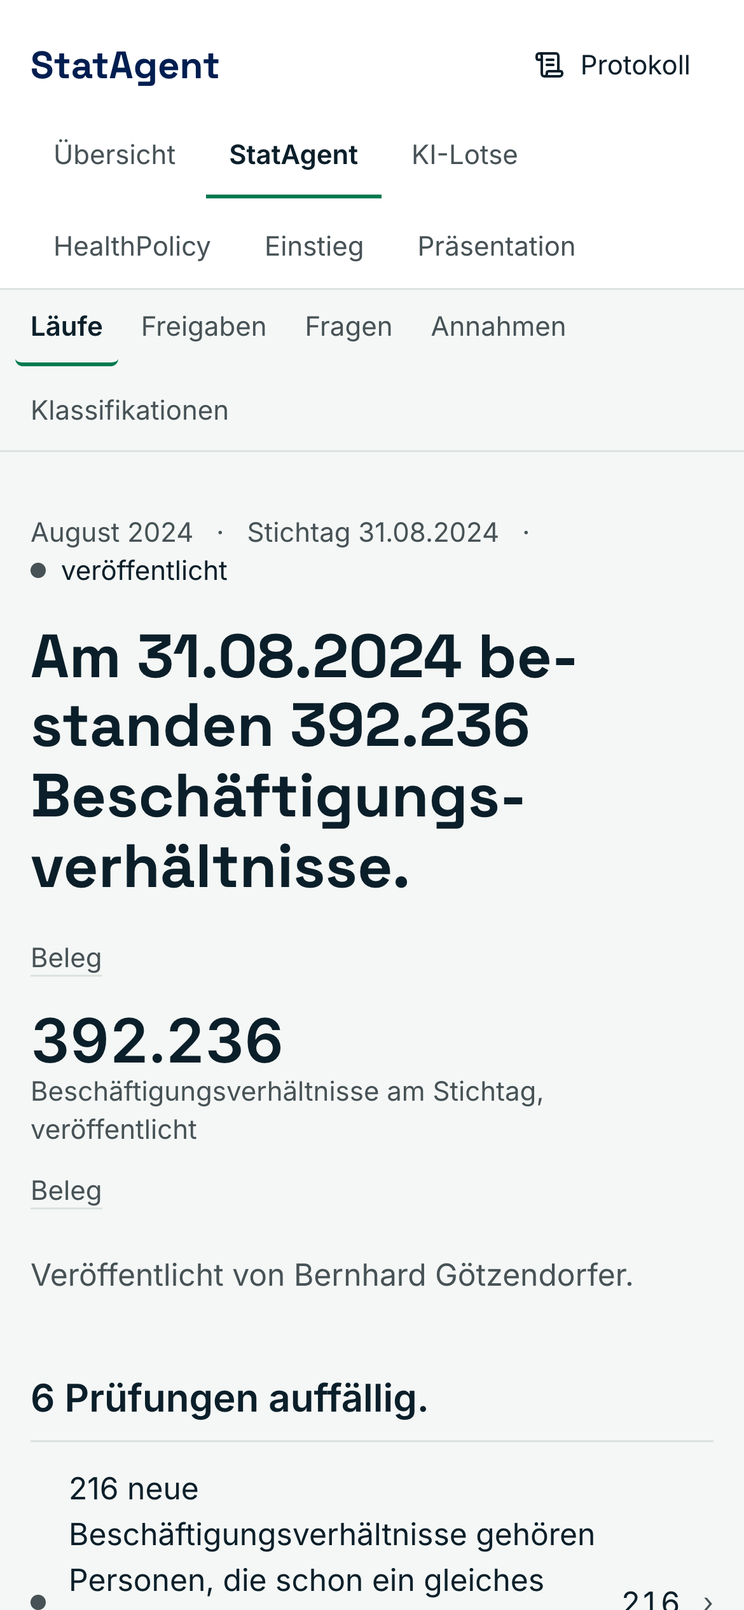
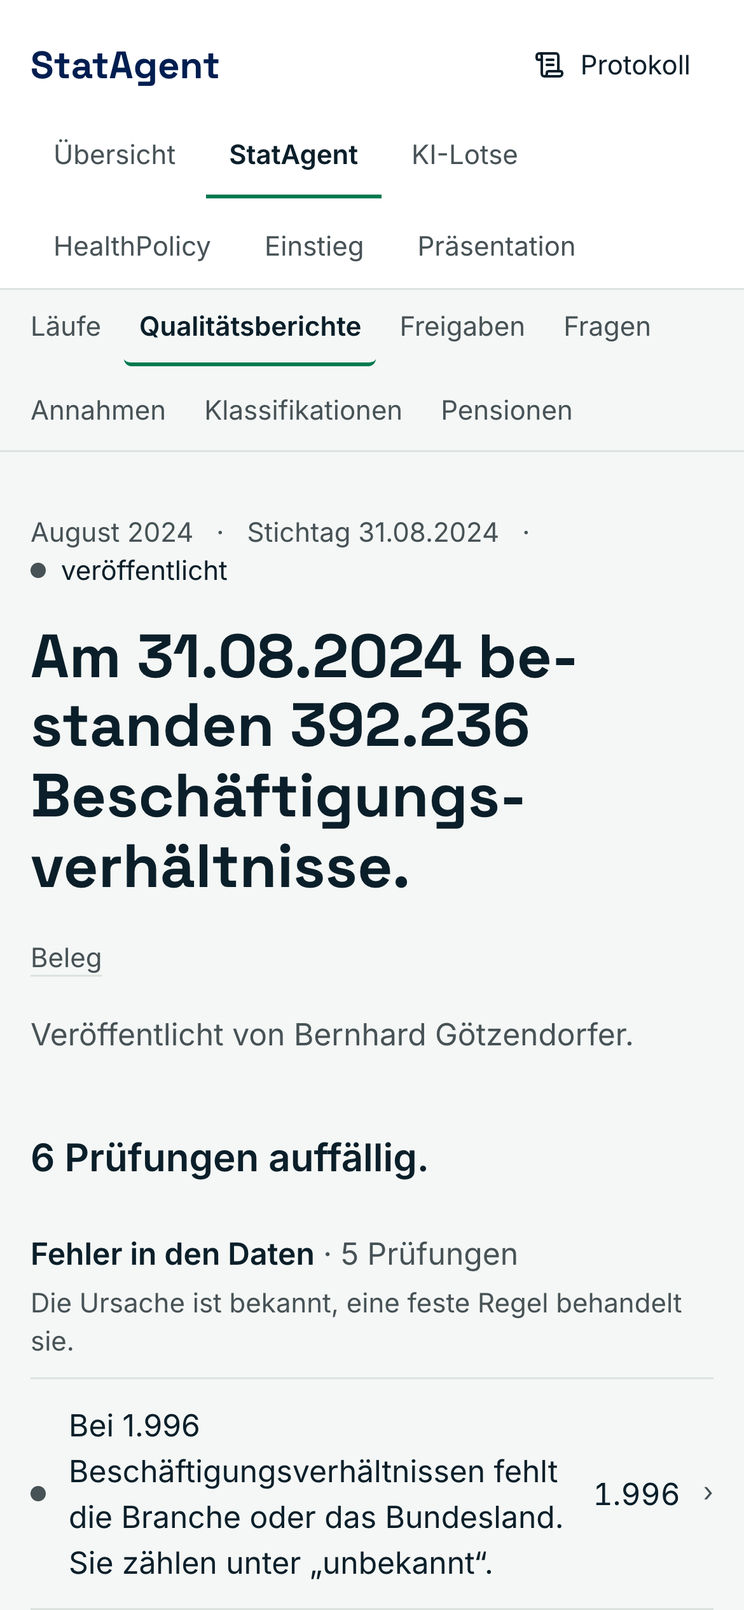
docs(e5): Karte, Drehbuch und alle Bilder auf dem Endstand, neue Wörter, Sätze zu Video, Sheet und Pensionen (#141)

diff --git a/docs/praesentation/demo-drehbuch.md b/docs/praesentation/demo-drehbuch.md
@@ -39,20 +39,20 @@ Standard ist Oktober 2025. Alternative ist März 2025. Bernhard wählt vorab ein
 - Sagt Bernhard (Einstieg auf `/uc3`): „24 Monatslieferungen, eine Zahl pro Monat. Zwei Monate hat das Programm angehalten, statt sie zu veröffentlichen. Das zeige ich Ihnen zuerst.“
 
 - Reserve im Terminal: `uv run uc3 lauf --lieferung 2025-10`, danach `uv run uc3 laeufe`. Bericht: `abgabe/qualitaetsberichte/2025-10.md`. Alternative: `--lieferung 2025-03` und `abgabe/qualitaetsberichte/2025-03.md`.
-- Klickweg: `/uc3/auftrag`, unten „Einen Monat rechnen“, Monat wählen, dann „Monat und Qualitätsbericht ansehen“. Gemessen für Oktober 2025: 92,9 s und 102,0 s (Lane Vorführung).
-- Sagt Bernhard (Oktober 2025): „Es kommen 313.154 gegen 394.200 im Vormonat (F17). 78.949 Verhältnisse fehlen in der Lieferung (F11). Das Programm hält den Monat an und markiert ihn als vorläufig.“
+- Klickweg: „Auftrag“, unten „Einen Monat rechnen, nach den Änderungsaufträgen“, Monat wählen, „Rechnen“, dann „Monat und Qualitätsbericht ansehen“. Gemessen für Oktober 2025 auf der Vorführ-Adresse: 92,9 s bis 106 s. Im ersten Bildschirm: „angehalten“, 78.949 fehlen, 319.768 + 77.746 = 397.514 (06.11.2026 06:28).
+- Sagt Bernhard (Oktober 2025): „Jedes fünfte Verhältnis fehlt in der Lieferung, 78.949 (F11). Das Programm hält den Monat an und markiert ihn als vorläufig. Im Video sehen Sie die alten Regeln, 390.900. Hier rechnet das Programm nach den Änderungsaufträgen, 397.514. Die 78.949 fehlen in beiden.“
 - Sagt Bernhard (März 2025): „März 2025 hat zwei Fehler auf einmal. 1.663 Zeilen sind doppelt (F8), und die freien Dienstverträge fehlen ganz, 1.492 Verhältnisse (F9). Das Programm hält den Monat an und markiert ihn als vorläufig.“
 - Jury muss sehen (Oktober 2025):
-  - Prüfregel P15: 313.154 gegen 394.200 (F17), Einstufung sichtbar.
+  - Prüfregel P15: nach den Änderungsaufträgen 82.556 unter dem Vormonat, nach den alten Regeln 313.154 gegen 394.200, also 81.046 (F17). Einstufung sichtbar.
   - Prüfregel P16: 78.949 von 394.200 Verhältnissen fehlen (F11).
   - Prüfregel P17: 345.078 Zeilen gegen 434.104 im Vormonat (F11).
-  - Status des Monats: angehalten und vorläufig. 77.746 Verhältnisse sind fortgeschrieben, 390.900 sind als vorläufiger Bestand ausgewiesen (F11).
+  - Status des Monats: angehalten und vorläufig. 77.746 Verhältnisse sind übernommen. Nach den Änderungsaufträgen 397.514, nach den alten Regeln 390.900 (F11).
   - Nichts wurde gelöscht. Die Rohdaten bleiben.
 - Jury muss sehen (März 2025):
   - Auffälligkeit Volldubletten mit 1.663 Zeilen (F8), Einstufung sichtbar.
   - Auffälligkeit fehlende freie Dienstverträge mit 1.492 Verhältnissen (F9), Einstufung sichtbar.
   - Status des Monats: angehalten und vorläufig.
-- Beleg danach (3:00–4:00): Bericht August 2024 öffnen. Sagt Bernhard: „Ihr Beispielbericht August 2024, 2.880 Zahlen. Wir rechnen ihn komplett nach: 2.880 stimmen (F1). Für die 23 anderen Monate wachen 24 Prüfregeln (F15).“
+- Beleg danach (3:00–4:00): „Qualitätsberichte“, August 2024. Sichtbar: 392.236. Sagt Bernhard: „Ihr Beispielbericht August 2024, 2.880 Zahlen. Wir rechnen ihn komplett nach: 2.880 stimmen (F1). Für die 23 anderen Monate wachen 24 Prüfregeln (F15).“ Die 2.880 steht nicht im ersten Bild, nur zugeklappt in einer Rückfrage.
 - Hinweis zu 81.046 und 78.949: Die Differenz der Bestände ist 394.200 minus 313.154, also 81.046 (F17). Die Zahl 78.949 zählt Verhältnisse, die in der Lieferung gar nicht vorkommen (F11). Das sind zwei verschiedene Messungen. Bernhard nennt in der Demo beide nur mit ihrer Bedeutung.
 
 ### Annahme im Detail (4:00–5:00)
@@ -72,18 +72,20 @@ Bewertet in Bereich 5 („Live-Änderung per Sprache gelingt“, 20 Punkte). „
 1. `uv run uc3 vorschlag zeigen 24`: Regel-Unterschied und Zahlen vorher und nachher von Auftrag 1.
 2. `uv run uc3 protokoll --zeigen`, Abschnitt 2: alle drei Aufträge mit Status „freigegeben“ und Name.
 
-- Sagt Bernhard (FAQ Frage 11): „Die drei Aufträge der Aufgabe habe ich in Sätzen gestellt, die Agenten schrieben Vorschläge. Die Freigaben hat in meinem Auftrag eine KI-Sitzung eingegeben, ich habe sie um 18:22 mit meinem Namen bestätigt. Das steht offen im Protokoll.“
+- Sagt Bernhard (FAQ Frage 11): „Die drei Aufträge der Aufgabe habe ich in Sätzen gestellt, die Agenten schrieben Vorschläge. Die Freigaben hat in meinem Auftrag eine KI-Sitzung eingegeben, ich habe sie um 18:22 mit meinem Namen bestätigt. Das steht offen in der Datei `abgabe/protokoll.md`.“ Das Web-Protokoll und die Freigaben zeigen nur „Freigegeben von Bernhard Götzendorfer“ mit 16:53 bis 16:54.
 - Sagt Bernhard (bei 1): „Der Gesamtbestand bleibt bei 392.236. Die Kategorien verschieben sich: Angestellte mit Dienstvertrag 235.819 und mit freiem Dienstvertrag 1.142 werden zu Angestellten, 236.961.“
 
 **Teil 2, live per Sprache (6:00–9:30):** Laut Aufgabenstellung gibt die Jury eine kleine, unbekannte Änderung vor. Bernhard fragt: „Nennen Sie mir eine Regel, die ich jetzt ändern soll.“ Er wiederholt den Wunsch der Jury in einem Satz und tippt diesen Satz. Die vier geübten Änderungen im Fragenkatalog Teil B decken die naheliegenden Wünsche ab (Altersgrenze, Geburtsmonat 13, Schwelle Bestandsrückgang, Spaltentausch). Nennt die Jury nichts, nimmt Bernhard den Standard-Satz unten.
 
-**Standard-Satz:** „Beamte zählen nicht mehr mit“, Monat Juli 2026. Die Seite zeigt: Gesamt 407.604 → 395.315, „Gesamt ändert sich um −12.289“, Beamte 12.289 → 0, Angestellte und Arbeiter gleich. Der Vorschlag dauert rund 3 Minuten: gemessen 06.11.2026 02:36 auf dem Instanz-Stand 1a4e0b8, 2 min 55 s, nur bis zum Vorschlag. Die Lane Vorführung maß 2 min 45 s, die UI-Regie 2 min 34 s. Rücknahme: neuer Auftrag „Nimm Vorschlag <n> zurück“, +12.289, rund 1,5 Minuten; bis #168 nennt die Seite dabei „Keine Regeländerung hinterlegt“. Ausschluss und Rücknahme sind seit !150 auf main (06.11.2026 02:06). Entscheid um 06:45.
+**Standard-Satz:** „Beamte zählen nicht mehr mit“, Monat Juli 2026. Die Seite zeigt: „Testrechnung für Juli 2026“, Gesamt 407.604 → 395.315, „Gesamt ändert sich in diesem Monat um −12.289“, Beamte 12.289 → 0, Angestellte und Arbeiter gleich. Der Vorschlag dauert rund 3 Minuten, die Seite sagt das selbst: gemessen 06.11.2026 06:17 bis 06:20, 2 min 46 s, zuvor 2 min 55 s, nur bis zum Vorschlag. Die Lane Vorführung maß 2 min 45 s, die UI-Regie 2 min 34 s. Rücknahme: neuer Auftrag „Nimm Vorschlag <n> zurück“, +12.289, rund 1,5 Minuten; bis #168 nennt die Seite dabei „Keine Regeländerung hinterlegt“. Ausschluss und Rücknahme sind seit !150 auf main (06.11.2026 02:06). D2 Teil 2 ja (Lead, 06:34).
+
+**Wenn jemand das Sheet aufschlägt:** Das Blatt Hinweise in `aggregationen_v2.xlsx` sagt „am Stichtag“, nach den Änderungsaufträgen zählt aber der ganze Monat, und alle 24 Monate sind dort vorläufig. Die Abgabe ist eingefroren. Sagt Bernhard: „Das Blatt trägt noch den alten Hinweis. Nach den Änderungsaufträgen zählt der ganze Monat, diese 24 Monate sind vorläufig.“
 
 **Knapp:** Von den 3:30 für Teil 2 gehen rund 3 Minuten ans Warten. In der Wartezeit sagt Bernhard: „Das Programm rechnet den Monat jetzt zweimal, nach der alten und nach der neuen Regel. Geändert ist noch nichts.“
 
 1. `/uc3/auftrag`: Satz tippen, Monat für die Zahlen wählen, „Vorschlag schreiben lassen“. Im Satz den Zielwert nennen. Bei einer Änderung an Geburtsmonat 13 Juni 2026 wählen. Reserve im Terminal: `uv run uc3 agent "<Satz>" --probe JJJJ-MM`, zum Beispiel B2: `uv run uc3 agent "Rechne bei Geburtsmonat 13 nur mit der Differenz der Jahre (Jahresdifferenz) statt mit dem 1. Juli." --probe 2026-06`. Der Agent schreibt einen Vorschlag. Seit !150 stimmt die Probe auch in 2025-03 und 2025-10 (396.762 und 397.514, gemessen von der UC3-Lane). Die Seite bietet alle 24 Monate an, auch diese zwei (gesehen 06.11.2026 02:36).
 2. „Vorher und nachher ansehen, dann entscheiden“: Regel-Unterschied und Zahlen vorher und nachher. Reserve: `uv run uc3 vorschlag zeigen <id>`. Bei B2: `R5_alter`, `geburtsmonat_13` von `ersatz:07-01` auf `jahresdifferenz`.
-3. Vor- und Nachnamen eintragen, „Ja, so rechnen wir ab jetzt“. Die Seite nennt den Commit. Reserve: `uv run uc3 freigabe <id> --name "Bernhard Götzendorfer"`, dann `uv run uc3 protokoll --zeigen`.
+3. Vor- und Nachnamen eintragen, „Ja, so rechnen wir ab jetzt“. Die Seite nennt den Commit. Danach „Freigaben“ in der Unterleiste öffnen: Beim Auftrag stehen Gesamt 407.604 → 395.315, −12.289, Name und Uhrzeit, der Kopf zählt „4 Änderungen, alle mit Namen freigegeben.“ (UI-Regie, 07:33). Das Panel „Protokoll“ im Kopf für diesen Schritt nicht öffnen: Es nennt den Namen nicht und zeigt die Zeit des Vorschlags. Reserve: `uv run uc3 freigabe <id> --name "Bernhard Götzendorfer"`, dann `uv run uc3 protokoll --zeigen`.
 
 - Sagt Bernhard (bei 1): „Ich sage dem Agenten in einem Satz, was er ändern soll.“
 - Sagt Bernhard (bei 2): „Hier ist, was sich ändern würde, vorher und nachher. Wirksam wird es erst mit meinem Namen.“ Bei B2 zusätzlich: „Der Gesamtbestand bleibt gleich. Die Regel ändert nur das Alter, deshalb steht die Wirkung unter der Tabelle, bei den Altersgruppen.“
@@ -96,7 +98,7 @@ Bewertet in Bereich 5 („Live-Änderung per Sprache gelingt“, 20 Punkte). „
 - Die Anweisung als Satz in Alltagssprache.
 - Regel-Diff und Zahlen vorher und nachher (F19 für Auftrag 1, live für den Standard-Satz).
 - Freigabe mit Vor- und Nachname, „Team“ wird abgelehnt (`shared/py/plattform/freigabe.py`, `pruefe_name`).
-- Eintrag im Protokoll (F26).
+- Name und Uhrzeit beim Auftrag unter „Freigaben“. Die Datei `abgabe/protokoll.md` trägt die Aufträge der Aufgabe (F26).
 
 **Stand der Proben:** 05.11.2026 17:56 bis 17:58 auf main 321a7176: B1, B2, B3 ohne Vorschlag oder abgebrochen. 18:20 bis 18:25 mit dem Code von !50: B2 dreimal von drei gültig. Das war mit 2025-03. Am selben Abend maß die UC3-Lane dort 396.762 → 395.292 (−1.470) bei einer reinen Altersänderung: In der Probe fehlten die Fortschreibungen von 2025-03 und 2025-10, seit !150 ist das behoben, die Abgabe war nicht betroffen. Mit 2026-06 bleibt die Gesamtzahl bei 403.301 (einmal gemessen von der UC3-Lane, 22:40, Commit d888e09, bis zum Vorschlag). Im Browser bleibt die Tabelle dort gleich, darunter nennt die Seite die Altersgruppen (seit !239). Juli bis Dezember zeigen bei B2 keinen Unterschied, das ist fachlich richtig.
 
@@ -136,7 +138,7 @@ Zusatz (12:00–13:00), eine ehrliche Absage, nur wenn Zeit bleibt: „Wie viele
 **Stand der freien Fragen** (online gemessen 06.11.2026 00:46, Stand `main` `2005e01`, um 06:45 neu messen):
 
 - Neu seit #189, Klassifikationen (06.11.2026 01:34, main `275ffb2`): „Was ist ÖNACE C 10.11-0?“, „Was ist die Gemeinde 62280?“, „Welche Bezirke hat Tirol?“ werden erklärt, die Suche steht auf `/uc3/klassifikationen`. Nicht gegen das Orakel, Texte aus den Klassifikationen.
-- Neu seit !230, Regelsatz v2: „Beschäftigte im Juli 2026 nach Regelsatz v2“ 407.604, ohne „v2“ bleibt es 399.027. Fluktuation gibt es unter v2 nicht.
+- Neu seit !230, nach den Änderungsaufträgen: „Beschäftigte im Juli 2026 nach den Änderungsaufträgen“ 407.604, ohne den Zusatz bleibt es 399.027. Fluktuation gibt es dort nicht. „vorher und nachher“ in einer Frage sagt ab, also je einzeln fragen.
 - Neu seit !227, Alter: „Wie viele Beschäftigte unter 25 Jahren gab es im Juli 2026?“ 41.626, in Wien 8.352. „Wie viele 30-Jährige gab es im August 2024?“ 9.017. „Beschäftigte ab 50 Jahren im Juli 2026“ 124.728. Nicht gegen das Orakel belegt, Entscheid um 06:45. Falle: „über 50“ heißt 51 Jahre und älter (115.451).
 - Sagt ehrlich ab: zwei Werte eines Merkmals („Wien und Tirol“, „Arbeiter und Angestellte“), „Durchschnittsalter“, „ab 50“ ohne „Jahren“, Fluktuation mit Filter („in Wien“) oder für August 2024, Fragen nach einer einzelnen Person. Neu gemessen sind davon „Wien und Tirol“, „Durchschnittsalter“ und „ab 50“, der Rest stammt vom Stand `fd936b3`.
 - Holpert: „Welche Branche hat die höchste Fluktuation“ sagt ab, aber mit „Das Wort ‚hat‘ kenne ich nicht“.
@@ -152,12 +154,14 @@ Fragt die Jury so etwas, sagt Bernhard: „Das zeige ich Ihnen mit einer Abfrage
 
 ### D4 Gemeinsamer Einstieg (13:00–14:00)
 
+Nur wenn Zeit bleibt danach, rund 20 s: Adresse `/ablauf`. Sagt Bernhard: „So liefen die 24 Stunden wirklich, mit echten Zeiten.“ Fragt jemand nach Pensionen: „Die Pensionen kamen nach dem Einfrieren der Abgabe dazu.“
+
 - Die Wien-Frage in `/uc4` mit einem Klick auf das erste Beispiel: „Wie viele Beschäftigte gab es im März 2025 in Wien im Gesundheits- und Sozialwesen?“ Sie steht wörtlich auf Folie 9.
-- Sollwert für UC3: **7.498** Beschäftigungsverhältnisse (F18), Wien, ÖNACE 2025 Abschnitt R (Gesundheits- und Sozialwesen), Stichtag 31.03.2025, mit Beleg. Der Simulator sagt, was mehr oder weniger Personal für Wartezeit und Betreuung heißt, der Lotse sagt es für den nächsten Arzttermin (fester Text, an der Karte steht „Fester Text“). Dauer online 9 bis 12 s.
+- Sollwert für UC3: **7.498** Beschäftigungsverhältnisse (F18), Wien, ÖNACE 2025 Abschnitt R (Gesundheits- und Sozialwesen), Stichtag 31.03.2025, mit Beleg. Der Simulator sagt, was mehr oder weniger Personal für Wartezeit und Betreuung heißt, der Lotse sagt es für den nächsten Arzttermin (an der Karte steht „Vorlage, ohne KI“). Rund 15 s. Nie vor UC3, nur als Ausblick in 60 s, nur das Beispiel. Das zweite Beispiel ist Tirol im Juli 2026, 4.219.
 - In `/uc4` keine Fluktuationsfrage zeigen, bis der Lead den Fix zu !303 live meldet: Neben der richtigen Zahl stand ein falscher Satz zur Branche.
 - **Nur die Frage vom Knopf, ohne Zusatz.** Mit „und was heißt das für Wartezeiten beim Arzt?“ stoppt die Kette bei StatAgent, ohne Zahl (online gemessen 06.11.2026 05:02). Am Vorabend lief dieselbe Frage noch über das Rechenmodell, das ist überholt.
 - Was von UC1 und UC2 läuft, steht im Tagesstand des Fragenkatalogs (Teil C, „Läuft der gemeinsame Einstieg schon?“). Bernhard sagt nur, was dort steht.
-- Nur wenn die Wien-Frage um 06:45 echt läuft (nicht im Testmodus). Sonst entfällt D4 ohne Ersatz.
+- D4 ja, die Knopf-Frage (Lead, 06:34). Die Seite hat online keine Modellwahl mehr.
 - **Entscheid am Fr 06:45.** Wer entscheidet: Lead mit Bernhard. Ergebnis in `probe.md` eintragen.
 - Sagt Bernhard: „Eine Frage, drei Antworten. Die Zahl kommt aus UC3 und trägt ihren Beleg: 7.498.“
 
@@ -193,7 +197,7 @@ Jeder Punkt wird abgehakt, sobald er geprüft ist. Uhrzeit nur aus der Uhr (`TZ=
 - [ ] Zahlen in den Szenen gegen `abgabe/` abgeglichen.
 - [ ] D1: Monat gewählt (2025-10 oder 2025-03) und in `probe.md` eingetragen.
 - [ ] D3: Die acht geprüften Fragen auf `/uc3/fragen` und mit `uv run uc3 frage "…"` geprobt, jede Zahl gegen die Sollzahl der Tabelle. SQL A1 bis A3 als Rückfall bereit, `<regelstand>` eingesetzt.
-- [ ] D4: Sollwert 7.498 (F18) gegen die Abfrage im Belegregister geprüft. Testmodus-Ansage bereit.
+- [ ] D4: Sollwert 7.498 (F18) gegen die Abfrage im Belegregister geprüft.
 - [ ] D2: `uv run uc3 vorschlag zeigen 24` und `uv run uc3 protokoll --zeigen` laufen auf dem Vortragsrechner. B2 zeigt die Wirkung nur unter der Tabelle, bei den Altersgruppen (im Browser gesehen, UI-Regie). Nie `freigabe` geübt.
 - [ ] Datenbank: `UC3_DATABASE_URL` zeigt auf `statistik_vorfuehrung`, nicht auf `statistik`. Prüfung ohne Wert: Datenbankname im Kopf der App oder `uv run uc3 laeufe` liefert die 24 Läufe der Kopie. Checkout steht auf einem Demo-Branch, der für diesen Lauf frisch ab main angelegt ist.
 - [ ] Protokolleintrag der Freigabe von Auftrag 1 (05.11.2026 16:54) gefunden, Fenster für den Rückblick bereit.

diff --git a/docs/praesentation/kriterien-karte.md b/docs/praesentation/kriterien-karte.md
@@ -2,13 +2,13 @@
 
 Sechs Bereiche, je 20 von 120 Punkten. Die Spalte „Raster“ steht wörtlich wie in der Aufgabenstellung, Abschnitt Bewertung. Die Spalte „Stand“ sagt, was im Repo auf `main` ist: **erfüllt**, **teilweise** oder **offen**. Kennungen wie F4 in Klammern verweisen auf das Belegregister, nicht auf die Annahmen F1 bis F10 in den Berichten.
 
-**Gemessen:** 06.11.2026 auf `main` `5328291`. Bereiche 2 und 4 online neu gefragt, um 04:33 bis 04:35. Bereiche 1, 3 und 6: Routen, Dateien und Zahlen geprüft, dazu die Pensionsfrage online, Läufe nicht wiederholt. Bereich 5 auf der Vorführ-Adresse um 02:36.
+**Gemessen:** 06.11.2026 auf `main` `ceef8b1`. Online um 07:27 bis 07:35: alle Seiten dieser Karte, die acht Fragen, die Klassifikationsfragen und Pensionen. Bereich 5 auf der Vorführ-Adresse um 06:15 bis 06:28. Läufe nicht wiederholt.
 
 | Bereich | Stufe | Raster | Stand | Was wirklich da ist | Wo zu sehen |
 |---|---|---|---|---|---|
 | 1 Datenmanagement | Mindest | liest alle Lieferungen korrekt ein, Datenmodell nach Vorgabe | **erfüllt** | 24 Lieferungen, 10.152.292 Zeilen (F3). Tabellen nach Anhang B. | `/uc3`, `uc3/db/020_stat_metadaten.sql`, `uc3/db/030_bereinigt_stat.sql` |
 | | Optimum | versionierter Bestand über alle Lieferungen | **erfüllt** | Jede Lieferung bleibt. Fehlende Verhältnisse werden fortgeschrieben, nichts wird gelöscht (F9, F11). | Szene 3, Demo D1, `uc3/statagent/bereinigung.py` |
-| | Optimum | Pensionsmeldungen aller Träger trotz unterschiedlicher Formate eingelesen | **erfüllt** | 28 von 28 Dateien, 9 Formate, 394 Summen ohne Abweichung. 2025: 2.584.909, vorläufig bis zur Freigabe mit Namen. Öffentlich Bedienstete fehlen, die frühere BVA meldet keine. | `docs/uc3/pensionen-pruefbericht.md`, Fragenkatalog C14 |
+| | Optimum | Pensionsmeldungen aller Träger trotz unterschiedlicher Formate eingelesen | **erfüllt** | 28 von 28 Dateien, 9 Formate, 394 Summen ohne Abweichung. 2025: 2.584.909. Kam nach dem Einfrieren der Abgabe dazu, öffentlich vorläufig. Öffentlich Bedienstete fehlen, die frühere BVA meldet keine. | `/uc3/pensionen`, `docs/uc3/pensionen-pruefbericht.md`, Fragenkatalog C14 |
 | 2 Klassifikation | Mindest | legt die benötigten Klassifikationen an, je Begriff nur einmal | **erfüllt** | Geschlecht, Region, Qualifikation, Kategorie, ÖNACE und Alter, je einmal. | `/uc3/klassifikationen`, `uc3/db/020_stat_metadaten.sql` |
 | | Optimum | ÖNACE bis zum 5-Steller und Regionen Österreichs vollständig historisiert | **teilweise** | Online sichtbar, mit Suche: ÖNACE 2008 und 2025 bis zur Unterklasse (701 und 711 Codes, gleich auf einer frischen Datenbank nach README), Bezirke und Gemeinden je Stand 2011 bis 2026. Offen: ÖNACE 2003 nur bis Ebene 2. Gezählt wird weiter nach Abschnitt und Bundesland, mehr haben die Lieferungen nicht. | `/uc3/klassifikationen`, `uv run uc3 klass`, Szene 7 |
 | | Optimum | Übergänge aus den amtlichen Änderungslisten | **teilweise** | Online sichtbar. ÖNACE: 1.115 von 2008 nach 2025 auf der tiefsten Ebene, 65 auf Abschnitten, darunter 2003 nach 2008. Regionen: 674 für Gemeinden und 16 für Bezirke, gleich auf einer frischen Datenbank nach README, drei amtliche Fälle nachgeprüft. Online zum Beispiel Gemeinde 62280: „Seit Jänner 2025 zusammengelegt aus Söchau (62252), Fürstenfeld (62267).“ | `/uc3/klassifikationen`, `docs/plan/uc3/regionen-stichprobe.md`, Tabelle `stat.uebergang` |
@@ -16,16 +16,16 @@ Sechs Bereiche, je 20 von 120 Punkten. Die Spalte „Raster“ steht wörtlich w
 | 3 Qualitätssicherung | Mindest | erkennt einen Teil der Fehler, Qualitätsbericht je Monat | **erfüllt** | 24 Berichte, 24 Prüfregeln (F15), acht Arten von Fehlern (F4 bis F11). | `/uc3/berichte/2025-03`, `abgabe/qualitaetsberichte/` |
 | | Optimum | erkennt alle Fehler | **teilweise** | Der offizielle Bericht August 2024 stimmt ganz, 2.880 von 2.880 (F1). Für die anderen 23 Monate gibt es keinen Vergleich. Ob es alle Fehler sind, können wir nicht belegen. | Szene 5 und 6 |
 | | Optimum | unterscheidet sie von echten Entwicklungen | **teilweise** | Jeder Befund trägt eine Einstufung. Ein Teil bleibt „nicht erklärbar“. Für die Rückfragen R1 bis R10 gilt je eine Annahme mit Beleg, die Rückfrage ist dokumentiert. Der Bericht Jänner 2025 erklärt den Wechsel der Branchenliste. | Demo D1, `/uc3/berichte/2025-01`, `abgabe/rueckfragen/` |
-| | Optimum | jede Annahme begründet und dokumentiert | **erfüllt** | Annahmen F1 bis F10 je Monat im Bericht und unter `/uc3/annahmen`, Herleitung A1 bis A13 im Plan. Beispiel Geburtsmonat 13 (Beleg F4). | `/uc3/annahmen`, Folie 8, `docs/plan/uc3/annahmen.md` |
-| 4 Reporting | Mindest | Aggregations-Sheet nach den Regeln der Fachbeschreibung | **erfüllt** | Sheet nach alten und neuen Regeln. Kernzahlen August 2024 exakt (F14). | `abgabe/aggregationen_v1.xlsx`, `abgabe/aggregationen_v2.xlsx` |
-| | Optimum | Datenanfragen (können sich auch auf Klassifikationen und Metadaten beziehen) richtig beantwortet | **teilweise** | Acht geprüfte Fragen mit Sollzahl (F21 bis F25). Zu Klassifikationen antwortet sie bis zur Unterklasse und zur Gemeinde. Zahlen je Bezirk oder Gemeinde gibt es nicht, je Alter schon (unter 25 im Juli 2026: 41.626), auch nach Regelsatz v2 (Juli 2026: 407.604), online gemessen. Freie Fragen sind nicht alle geprüft. | Demo D3, `/uc3/fragen`, Fragenkatalog |
-| | Optimum | Dashboard | **erfüllt** | Übersicht aller Monate mit Verlauf und Status. | `/uc3` |
+| | Optimum | jede Annahme begründet und dokumentiert | **erfüllt** | 10 Annahmen unter `/uc3/annahmen`, jede mit „Warum“, online gezählt. Herleitung A1 bis A13 steht im Plan, online nur als Titel. Im Monatsbericht stehen die Annahmen ohne Nummer. Beispiel Geburtsmonat 13 (Beleg F4; die Nummern F1 bis F10 dort sind andere als die Belege auf dieser Karte). | `/uc3/annahmen`, Folie 8, `docs/plan/uc3/annahmen.md` |
+| 4 Reporting | Mindest | Aggregations-Sheet nach den Regeln der Fachbeschreibung | **erfüllt** | Sheet nach alten Regeln und nach den Änderungsaufträgen, online über „Excel-Dateien herunterladen“. Kernzahlen August 2024 exakt (F14). Das Blatt Hinweise im zweiten Sheet sagt noch „am Stichtag“. | `/uc3/ergebnisse`, `abgabe/aggregationen_v1.xlsx`, `abgabe/aggregationen_v2.xlsx` |
+| | Optimum | Datenanfragen (können sich auch auf Klassifikationen und Metadaten beziehen) richtig beantwortet | **teilweise** | Acht geprüfte Fragen mit Sollzahl (F21 bis F25). Zu Klassifikationen antwortet sie bis zur Unterklasse und zur Gemeinde. Zahlen je Bezirk oder Gemeinde gibt es nicht, je Alter schon (unter 25 im Juli 2026: 41.626), auch nach den Änderungsaufträgen (Juli 2026: 407.604), online gemessen. Freie Fragen sind nicht gegen das Orakel geprüft und werden nur auf Nachfrage gezeigt. | Demo D3, `/uc3/fragen`, Fragenkatalog |
+| | Optimum | Dashboard | **erfüllt** | „Dashboard der Beschäftigtenstatistik“: Kurve, Kennzahlen, 24 Monate mit Status, beide Stände umschaltbar. | `/uc3` |
 | 5 Weiterentwicklung und Betrieb | Mindest | Produktion läuft deterministisch | **erfüllt** | 72 Wiederholungsläufe, 72-mal derselbe Hash (F16). Gemessen in der Abgabe-Datenbank. | `abgabe/uc3-abnahme.md`, Abschnitt 3 |
-| | Optimum | alle Änderungsaufträge und Ministeriums-Lieferung umgesetzt | **erfüllt** | Drei Aufträge (F19). Lieferung 07/2026 mit 32.741 Personen. | `/uc3/freigaben`, `abgabe/ministerium_2026-07.beleg.md` |
-| | Optimum | nachvollziehbar protokolliert | **erfüllt** | Jede Änderung mit Anweisung, Name und Zeit (F26). Die Freigaben der Vorschläge 24 bis 26 hat eine KI-Sitzung in Bernhards Auftrag eingegeben, er hat sie um 18:22 bestätigt. Das steht offen im Protokoll. | `abgabe/protokoll.md` |
+| | Optimum | alle Änderungsaufträge und Ministeriums-Lieferung umgesetzt | **erfüllt** | Drei Aufträge (F19). Lieferung 07/2026 mit 32.741 Personen, die Zahl steht online, die Datei wegen der Einzeldaten nur im SV-Box-Teamordner. | `/uc3/freigaben`, `/uc3/freigaben/26`, `abgabe/ministerium_2026-07.beleg.md` |
+| | Optimum | nachvollziehbar protokolliert | **erfüllt** | Jede Änderung mit Anweisung, Name und Zeit (F26). Die Freigaben der Vorschläge 24 bis 26 hat eine KI-Sitzung in Bernhards Auftrag eingegeben, er hat sie um 18:22 bestätigt. Das steht offen in der Datei `abgabe/protokoll.md`. Das Web-Protokoll zeigt das nicht, es endet bei 16:54 mit dem Namen. | `abgabe/protokoll.md`, Knopf „Protokoll“ |
 | | Optimum | Live-Änderung per Sprache gelingt | **teilweise** | Getippter Satz, keine Stimme. Auf der Vorführ-Adresse gemessen bis zum Vorschlag: „Beamte zählen nicht mehr mit“, −12.289, 2 min 55 s. Unbekannte Aufträge auf Kopien der Abgabe-DB: 13 von 14. Nicht bestanden: Prüfschwelle je Bundesland, die gibt es nicht. | Demo D2, Fragenkatalog Teil B, `docs/plan/uc3/live-ruecknahme.md` |
 | 6 Bedienbarkeit | Mindest | alles lässt sich über die Konsole steuern: Läufe starten, Ergebnisse und Qualitätsberichte ansehen, Änderungen freigeben | **erfüllt** | Alles über einen Befehl. | `uv run uc3 --help`, `uc3/statagent/cli.py` |
-| | Optimum | übersichtliche Weboberfläche für Läufe, Qualitätsberichte und Annahmen, Klassifikationen, Freigaben und Fragen an die Daten | **erfüllt** | Alle sechs Inhalte sind im Web. Annahmen und Klassifikationen sind eigene Menüpunkte, Klassifikationen mit Suche. Aufträge gibt man auf der Vorführ-Adresse im Browser ein (`/uc3/auftrag`), die öffentliche Adresse ist nur lesend. | `/uc3`, `/uc3/berichte/2025-03`, `/uc3/annahmen`, `/uc3/klassifikationen`, `/uc3/freigaben`, `/uc3/fragen` |
+| | Optimum | übersichtliche Weboberfläche für Läufe, Qualitätsberichte und Annahmen, Klassifikationen, Freigaben und Fragen an die Daten | **teilweise** | Alle sechs Inhalte haben einen Reiter, auch Qualitätsberichte. Rechnen und freigeben geht nur auf der Vorführ-Adresse (`/uc3/auftrag`), die öffentliche Adresse sagt: „Hier sehen Sie die Ergebnisse. Gerechnet und freigegeben wird im Programm.“ Zu einem Lauf zeigt das Web Monat und Status, keinen Start und keine Dauer. | `/uc3`, `/uc3/berichte`, `/uc3/annahmen`, `/uc3/klassifikationen`, `/uc3/freigaben`, `/uc3/fragen` |
 
 ## So benutzen wir die Karte am Tisch
 

diff --git a/docs/praesentation/screens-manifest.md b/docs/praesentation/screens-manifest.md
@@ -5,30 +5,30 @@ Je Bild stehen Herkunft (Route, Commit, Lauf) und Art (live, Testdaten, Aufzeich
 
 | Bild | Motiv | Folie | Datei vorhanden | Breite | Höhe | SHA-256 | Route | Commit | Lauf | Art | aufgenommen am |
 |---|---|---|---|---|---|---|---|---|---|---|---|
-| SC01 | Monatsläufe: 24 Monate mit Status | 3 | ja | 1920 | 1080 | `b379e5c461b4b28b`[^SC01] | /uc3 | fd936b3 | Online-Demo, Stand 05.11.2026 | live | 2026-11-05T22:11+01:00 |
-| SC02 | Eine Regel mit Gültigkeit, Begründung und Freigabe | 4 | ja | 1920 | 1080 | `c08fe54b92e8b636`[^SC02] | /uc3/berichte/regeln | fd936b3 | Online-Demo, Stand 05.11.2026 | live | 2026-11-05T22:11+01:00 |
-| SC03 | Gemeinsamer Einstieg: eine Frage an alle drei | 1 | ja | 1920 | 1080 | `1e8b950175287b1c`[^SC03] | /uc4 | 11b5ff5 | Online-Demo, Stand 05.11.2026 | live | 2026-11-05T23:13+01:00 |
-| SC04 | Qualitätsbericht August 2024, der Monat der Vorlage | 5 | ja | 1920 | 1080 | `a16262ed95ad2269`[^SC04] | /uc3/berichte/2024-08 | fd936b3 | Online-Demo, Stand 05.11.2026 | live | 2026-11-05T22:11+01:00 |
-| SC05 | Zwei Branchenlisten mit Gültigkeit | 7 | ja | 1920 | 1080 | `48a9db9d2fddce06`[^SC05] | /uc3/klassifikationen | fd936b3 | Online-Demo, Stand 05.11.2026 | live | 2026-11-05T22:11+01:00 |
-| SC06 | Qualitätsbericht März 2025 mit Auffälligkeiten | 6 | ja | 1920 | 1080 | `cbccd9f9f81987fa`[^SC06] | /uc3/berichte/2025-03 | fd936b3 | Online-Demo, Stand 05.11.2026 | live | 2026-11-05T22:11+01:00 |
-| SC07 | Qualitätsbericht Oktober 2025, Monat angehalten | 3 | ja | 1920 | 1080 | `aa4ea228e3452768`[^SC07] | /uc3/berichte/2025-10 | fd936b3 | Online-Demo, Stand 05.11.2026 | live | 2026-11-05T22:11+01:00 |
-| SC08 | Regel R5_alter als Daten | 8 | ja | 1920 | 1080 | `cdbfac747cf62de2`[^SC08] | /uc3/berichte/regeln | fd936b3 | Online-Demo, Stand 05.11.2026 | live | 2026-11-05T22:11+01:00 |
-| SC09 | Übersicht: drei Use Cases, ein Kern | 2 | ja | 1920 | 1080 | `16719f54a2b32a07`[^SC09] | / | fd936b3 | Online-Demo, Stand 05.11.2026 | live | 2026-11-05T22:11+01:00 |
-| SC10 | Erledigte Freigabe mit Name und Wirkung | 10 | ja | 1920 | 1080 | `3acf913edaa03264`[^SC10] | /uc3/freigaben/26 | 809da6d | Online-Demo, Stand 06.11.2026 | live | 2026-11-06T03:05+01:00 |
-| SC11 | Gemeinsamer Einstieg mit der Wien-Frage: drei Antworten, 7.498 mit Beleg | 9 | ja | 1920 | 1080 | `bbc601eacc873fa9`[^SC11] | /uc4 | 11b5ff5 | Online-Demo, Stand 05.11.2026 | live | 2026-11-05T23:11+01:00 |
-| SC12 | Agent-Vorschlag mit Diff vor der Freigabe | 4 | ja | 1920 | 1080 | `9a9c59fa9eadebad`[^SC12] | /uc3/freigaben/24 | 809da6d | Online-Demo, Stand 06.11.2026 | live | 2026-11-06T03:05+01:00 |
+| SC01 | Monatsläufe: 24 Monate mit Status | 3 | ja | 1920 | 1080 | `03b65b8df8d44923`[^SC01] | /uc3 | ceef8b1 | Online-Demo, Stand 06.11.2026 | live | 2026-11-06T07:33+01:00 |
+| SC02 | Eine Regel mit Gültigkeit, Begründung und Freigabe | 4 | ja | 1920 | 1080 | `b34f501acbd50145`[^SC02] | /uc3/berichte/regeln | ceef8b1 | Online-Demo, Stand 06.11.2026 | live | 2026-11-06T07:33+01:00 |
+| SC03 | Gemeinsamer Einstieg: eine Frage an alle drei | 1 | ja | 1920 | 1080 | `b5f2bfde26cbfcf0`[^SC03] | /uc4 | ceef8b1 | Online-Demo, Stand 06.11.2026 | live | 2026-11-06T07:33+01:00 |
+| SC04 | Qualitätsbericht August 2024, der Monat der Vorlage | 5 | ja | 1920 | 1080 | `c425ed9fc16c91f5`[^SC04] | /uc3/berichte/2024-08 | ceef8b1 | Online-Demo, Stand 06.11.2026 | live | 2026-11-06T07:33+01:00 |
+| SC05 | Zwei Branchenlisten mit Gültigkeit | 7 | ja | 1920 | 1080 | `2cd2f9723b091609`[^SC05] | /uc3/klassifikationen | ceef8b1 | Online-Demo, Stand 06.11.2026 | live | 2026-11-06T07:33+01:00 |
+| SC06 | Qualitätsbericht März 2025 mit Auffälligkeiten | 6 | ja | 1920 | 1080 | `8b735d525b57c123`[^SC06] | /uc3/berichte/2025-03 | ceef8b1 | Online-Demo, Stand 06.11.2026 | live | 2026-11-06T07:33+01:00 |
+| SC07 | Qualitätsbericht Oktober 2025, Monat angehalten | 3 | ja | 1920 | 1080 | `59e157b80c433d71`[^SC07] | /uc3/berichte/2025-10 | ceef8b1 | Online-Demo, Stand 06.11.2026 | live | 2026-11-06T07:33+01:00 |
+| SC08 | Regel R5_alter als Daten | 8 | ja | 1920 | 1080 | `041d62268930ccc4`[^SC08] | /uc3/berichte/regeln | ceef8b1 | Online-Demo, Stand 06.11.2026 | live | 2026-11-06T07:33+01:00 |
+| SC09 | Übersicht: drei Use Cases, ein Kern | 2 | ja | 1920 | 1080 | `26adbb8d6070e75f`[^SC09] | / | ceef8b1 | Online-Demo, Stand 06.11.2026 | live | 2026-11-06T07:33+01:00 |
+| SC10 | Erledigte Freigabe mit Name und Wirkung | 10 | ja | 1920 | 1080 | `970bbd768869e01c`[^SC10] | /uc3/freigaben/26 | ceef8b1 | Online-Demo, Stand 06.11.2026 | live | 2026-11-06T07:33+01:00 |
+| SC11 | Gemeinsamer Einstieg mit der Wien-Frage: drei Antworten, 7.498 mit Beleg | 9 | ja | 1920 | 1080 | `1b640026d2b805b4`[^SC11] | /uc4 | ceef8b1 | Online-Demo, Stand 06.11.2026 | live | 2026-11-06T07:33+01:00 |
+| SC12 | Agent-Vorschlag mit Diff vor der Freigabe | 4 | ja | 1920 | 1080 | `57ddc7a043a87ea7`[^SC12] | /uc3/freigaben/24 | ceef8b1 | Online-Demo, Stand 06.11.2026 | live | 2026-11-06T07:33+01:00 |
 
 Stand: 12/12 vorhanden, 12/12 gültig
 
[24 lines of base64/hex data omitted]

diff --git a/docs/praesentation/screens-sichtpruefung.md b/docs/praesentation/screens-sichtpruefung.md
@@ -4,18 +4,18 @@ Jedes Bild wird von einer zweiten Person oder einem unabhängigen Prüfer angese
 
 | Bild | Prüfer | Datum | Sichtbare Tokens/Schlüssel (ja/nein) | Echte Gesundheits- oder Sozialdaten (ja/nein) | Befund | Status (offen/ok) |
 |---|---|---|---|---|---|---|
-| SC01 | Agent UI-Regie, nicht Mensch | 2026-11-05 | nein | nein | Geprüft bei 1000 px Breite, Kleinstschrift nicht lesbar geprüft. Daten synthetisch laut Aufgabe | ok |
-| SC02 | Agent UI-Regie, nicht Mensch | 2026-11-05 | nein | nein | Geprüft bei 1000 px Breite, Kleinstschrift nicht lesbar geprüft. Daten synthetisch laut Aufgabe | ok |
-| SC03 | Agent UI-Regie, nicht Mensch | 2026-11-05 | nein | nein | Neu aufgenommen 05.11.2026 23:13 auf main 11b5ff5, oben rechts steht das Modell. Desktop bei 900 px angesehen. Mobil-Bild nicht angesehen. Daten synthetisch laut Aufgabe | ok |
-| SC04 | Agent UI-Regie, nicht Mensch | 2026-11-05 | nein | nein | Geprüft bei 1000 px Breite, Kleinstschrift nicht lesbar geprüft. Daten synthetisch laut Aufgabe | ok |
-| SC05 | Agent UI-Regie, nicht Mensch | 2026-11-05 | nein | nein | Geprüft bei 1000 px Breite, Kleinstschrift nicht lesbar geprüft. Daten synthetisch laut Aufgabe | ok |
-| SC06 | Agent UI-Regie, nicht Mensch | 2026-11-05 | nein | nein | Geprüft bei 1000 px Breite, Kleinstschrift nicht lesbar geprüft. Daten synthetisch laut Aufgabe | ok |
-| SC07 | Agent UI-Regie, nicht Mensch | 2026-11-05 | nein | nein | Geprüft bei 1000 px Breite, Kleinstschrift nicht lesbar geprüft. Daten synthetisch laut Aufgabe | ok |
-| SC08 | Agent UI-Regie, nicht Mensch | 2026-11-05 | nein | nein | Geprüft bei 1000 px Breite, Kleinstschrift nicht lesbar geprüft. Daten synthetisch laut Aufgabe | ok |
-| SC09 | Agent UI-Regie, nicht Mensch | 2026-11-05 | nein | nein | Geprüft bei 1000 px Breite, Kleinstschrift nicht lesbar geprüft. Daten synthetisch laut Aufgabe | ok |
-| SC10 | Agent UI-Regie, nicht Mensch | 2026-11-06 | nein | nein | Neu aufgenommen 06.11.2026 03:05 auf main 809da6d, Auftrag gekürzt, „Ganzer Auftrag“ darunter, Zahlen ohne Scrollen sichtbar. Mobil-Bild nicht angesehen. Daten synthetisch laut Aufgabe | ok |
-| SC11 | Agent UI-Regie, nicht Mensch | 2026-11-05 | nein | nein | Neu aufgenommen 05.11.2026 23:11 auf main 11b5ff5. Desktop bei 1100 px angesehen. Mobil-Bild nicht angesehen. Daten synthetisch laut Aufgabe | ok |
-| SC12 | Agent UI-Regie, nicht Mensch | 2026-11-06 | nein | nein | Neu aufgenommen 06.11.2026 03:05 auf main 809da6d, Auftrag gekürzt, „Ganzer Auftrag“ darunter, Zahlen ohne Scrollen sichtbar. Mobil-Bild nicht angesehen. Daten synthetisch laut Aufgabe | ok |
+| SC01 | Agent UI-Regie, nicht Mensch | 2026-11-06 | nein | nein | Aufgenommen 07:33 auf main ceef8b1, ohne den Knopf aus dem zweiten Update. Nur auf dem Übersichtsblatt angesehen. Mobil nicht angesehen. Daten synthetisch laut Aufgabe | ok |
+| SC02 | Agent UI-Regie, nicht Mensch | 2026-11-06 | nein | nein | Aufgenommen 07:33 auf main ceef8b1, ohne den Knopf aus dem zweiten Update. Einzeln gelesen. Mobil nicht angesehen. Daten synthetisch laut Aufgabe | ok |
+| SC03 | Agent UI-Regie, nicht Mensch | 2026-11-06 | nein | nein | Aufgenommen 07:33 auf main ceef8b1, ohne den Knopf aus dem zweiten Update. Nur auf dem Übersichtsblatt angesehen. Mobil nicht angesehen. Daten synthetisch laut Aufgabe | ok |
+| SC04 | Agent UI-Regie, nicht Mensch | 2026-11-06 | nein | nein | Aufgenommen 07:33 auf main ceef8b1, ohne den Knopf aus dem zweiten Update. Nur auf dem Übersichtsblatt angesehen. Mobil nicht angesehen. Daten synthetisch laut Aufgabe | ok |
+| SC05 | Agent UI-Regie, nicht Mensch | 2026-11-06 | nein | nein | Aufgenommen 07:33 auf main ceef8b1, ohne den Knopf aus dem zweiten Update. Nur auf dem Übersichtsblatt angesehen. Mobil nicht angesehen. Daten synthetisch laut Aufgabe | ok |
+| SC06 | Agent UI-Regie, nicht Mensch | 2026-11-06 | nein | nein | Aufgenommen 07:33 auf main ceef8b1, ohne den Knopf aus dem zweiten Update. Nur auf dem Übersichtsblatt angesehen. Mobil nicht angesehen. Daten synthetisch laut Aufgabe | ok |
+| SC07 | Agent UI-Regie, nicht Mensch | 2026-11-06 | nein | nein | Aufgenommen 07:33 auf main ceef8b1, ohne den Knopf aus dem zweiten Update. Nur auf dem Übersichtsblatt angesehen. Mobil nicht angesehen. Daten synthetisch laut Aufgabe | ok |
+| SC08 | Agent UI-Regie, nicht Mensch | 2026-11-06 | nein | nein | Aufgenommen 07:33 auf main ceef8b1, ohne den Knopf aus dem zweiten Update. Nur auf dem Übersichtsblatt angesehen. Mobil nicht angesehen. Daten synthetisch laut Aufgabe | ok |
+| SC09 | Agent UI-Regie, nicht Mensch | 2026-11-06 | nein | nein | Aufgenommen 07:33 auf main ceef8b1, ohne den Knopf aus dem zweiten Update. Nur auf dem Übersichtsblatt angesehen. Mobil nicht angesehen. Daten synthetisch laut Aufgabe | ok |
+| SC10 | Agent UI-Regie, nicht Mensch | 2026-11-06 | nein | nein | Aufgenommen 07:33 auf main ceef8b1, ohne den Knopf aus dem zweiten Update. Einzeln gelesen. Mobil nicht angesehen. Daten synthetisch laut Aufgabe | ok |
+| SC11 | Agent UI-Regie, nicht Mensch | 2026-11-06 | nein | nein | Aufgenommen 07:33 auf main ceef8b1, ohne den Knopf aus dem zweiten Update. Nur auf dem Übersichtsblatt angesehen. Mobil nicht angesehen. Daten synthetisch laut Aufgabe | ok |
+| SC12 | Agent UI-Regie, nicht Mensch | 2026-11-06 | nein | nein | Aufgenommen 07:33 auf main ceef8b1, ohne den Knopf aus dem zweiten Update. Einzeln gelesen. Mobil nicht angesehen. Daten synthetisch laut Aufgabe | ok |
 
 Offene Befunde: 0
 

diff --git a/docs/praesentation/fragenkatalog.md b/docs/praesentation/fragenkatalog.md
@@ -374,7 +374,7 @@ Fünftens steht die Altersgrenze 110 ohne amtlichen Standard. Sie ist ein Parame
 
 **Kurzantwort:** Die Szenen zeigen das Zielbild: eine Frage, drei Antworten. Was davon heute wirklich läuft, steht im Abschnitt „Stand“ darunter. Bernhard sagt nur, was dort steht. Sicher ist: Die Zahl kommt aus UC3, ohne Sprachmodell und mit Beleg, Sollwert 7.498 (F18).
 
-**Antwortweg:** In der Oberfläche die Seite `/uc4`, im Terminal `uv run uc3 antwort "Beschäftigte in Wien im März 2025"`. Laufen die Modelle im Testbetrieb, sagt Bernhard „Testbetrieb“ an.
+**Antwortweg:** In der Oberfläche die Seite `/uc4`, im Terminal `uv run uc3 antwort "Beschäftigte in Wien im März 2025"`. Die Seite hat online keine Modellwahl mehr.
 
 **Fundstelle:** `shared/py/plattform/router.py` (Router), Entry-Points `kic.uc_antwort` in `uc1/pyproject.toml`, `uc2/pyproject.toml`, `uc3/pyproject.toml`; `web/app/uc4/page.tsx`, `web/app/api/uc4/frage/route.ts`; siehe C12.
 
@@ -391,13 +391,13 @@ Code gemessen am 05.11.2026 18:54 auf main `1a8c645`. Betrieb gemessen am 06.11.
 | UC1-Adapter (Lotse) | registriert | `uc1/pyproject.toml`, `uc1.uc4:router_adapter` |
 | Freigabe mit Namen in UC2 | im Code | `uc2/src/uc2/verhandlung/freigabe.py`, `web/app/api/uc2/faelle/[id]/freigabe/route.ts` |
 | Freigabe mit Namen in UC1 | nicht gefunden | keine Fundstelle auf main |
-| Wien-Frage liefert drei Antworten | online ja: StatAgent 7.498 mit Beleg (Lauf 105, vorläufig), Simulator mit Modell gpt-5-4-mini, Lotse fester Text, beide mit dem Beleg aus UC3; nichts fehlt; 13 s | gemessen 05:01 |
+| Wien-Frage liefert drei Antworten | online ja: StatAgent 7.498 mit Beleg (Lauf 105, vorläufig), Simulator mit Modell gpt-5-4-mini, Lotse „Vorlage, ohne KI“, beide mit dem Beleg aus UC3; nichts fehlt; 13 s | gemessen 05:01, Bild SC11 07:33 |
 | Frage ohne Zahl | „Wie heißt der Hund von Pippi Langstrumpf?“: Die Kette stoppt bei StatAgent, ohne Zahl, 3 s. Die Antwort sagt: Das Wort „heißt“ kann ich nicht einordnen | gemessen 05:01 |
 | Frage mit Zusatz zu „Wartezeiten“ | Die Wien-Frage mit „und was heißt das für Wartezeiten beim Arzt?“ oder „was bedeutet das …“: Die Kette stoppt bei StatAgent, ohne Zahl, 3 s. Nicht vorführen | gemessen 05:02 und 05:03 |
 | „Zugänge Oktober 2024“ | Öffentliche Adresse: keine Zahl, Hinweis auf die lokale Auswertung. Vorführ-Instanz: 12.215 Zugänge, 14.557 Abgänge, Fluktuation je Branche, alle drei Stationen, 19 s | gemessen 23:07 und 23:08, Instanz 06.11.2026 02:40 |
 | Live-Änderung per Agent (D2 Teil 2) | auf main seit !150. „Beamte zählen nicht mehr mit“, Juli 2026: 407.604 → 395.315, −12.289, 2 min 55 s bis zum Vorschlag, nicht freigegeben | gemessen 06.11.2026 02:36, Vorführ-Instanz 1a4e0b8. Probe der Lane auf Kopien der Abgabe-DB: 13 von 14, `docs/plan/uc3/live-ruecknahme.md` |
 | Klassifikation bis 5-Steller und Gemeinden | online nachzuschlagen auf `/uc3/klassifikationen` mit Suche, und die Frage erklärt tiefe Codes, Gemeinden und Bezirke. Gezählt wird weiter nach Abschnitt und Bundesland, „Bezirk“ als Filter sagt ab | online gemessen 06.11.2026 01:34, main `275ffb2` |
-| Pensionsmeldungen der Träger | eingelesen: 28 von 28 Dateien, 9 Formate, 394 Summen ohne Abweichung. Online 2025 im Jahresdurchschnitt 2.584.909, vorläufig | `docs/uc3/pensionen-pruefbericht.md`, online gemessen 23:16 |
+| Pensionsmeldungen der Träger | eingelesen: 28 von 28 Dateien, 9 Formate, 394 Summen ohne Abweichung. Reiter `/uc3/pensionen`, 2025 im Schnitt 2.584.909, öffentlich vorläufig, auf der Vorführ-Adresse vom Owner freigegeben, nicht vergleichen. Kam nach dem Einfrieren der Abgabe dazu | `docs/uc3/pensionen-pruefbericht.md`, online gemessen 07:27 |
 | Lotse, verdeckter Test | Trefferquote 8 von 10, Träger richtig 6 von 10, Grenzen erkannt 3 von 8; Verbesserung eingespielt, Nachmessung offen | Prüfpunkt Lead 20:00 |
 | Simulator ohne passenden Zeitungsartikel | sagt offen „Modellannahme“, erfindet keinen Beleg | Prüfpunkt Lead 20:00, Messung E0 19:50 |
 | Online-Demo, Budget | 1.000 Modellaufrufe je Tag | Prüfpunkt Lead 20:00 |

diff --git a/docs/praesentation/skript-management.md b/docs/praesentation/skript-management.md
@@ -60,7 +60,7 @@ Belege: F3, F26.
 
 ## Folie 7 · Drei Aufträge, am selben Tag umgesetzt. · 6:15–7:15
 
-> Die Aufgabe stellt drei Änderungsaufträge, zum Beispiel: Dienstvertrag und freien Dienstvertrag zusammenfassen. Die habe ich in Sätzen gestellt, die Agenten schrieben Vorschläge. Die Freigaben hat in meinem Auftrag eine KI-Sitzung eingegeben, ich habe sie um 18:22 mit meinem Namen bestätigt. Das steht offen im Protokoll. Bis ein Vorschlag mit Zahlen dasteht, dauert es rund drei Minuten: Das Modell braucht drei bis neun Sekunden, dazu rechnet das Programm den Monat zweimal, vorher und nachher. Ein Vorschlag kostet zum Listenpreis rund einen Cent. Nicht jeder Satz sitzt beim ersten Mal. Zwei der drei Aufträge haben mehrere Anläufe gebraucht. Alle Versuche rund um die drei Aufträge zusammen haben rund 40 Cent gekostet.
+> Die Aufgabe stellt drei Änderungsaufträge, zum Beispiel: Dienstvertrag und freien Dienstvertrag zusammenfassen. Die habe ich in Sätzen gestellt, die Agenten schrieben Vorschläge. Die Freigaben hat in meinem Auftrag eine KI-Sitzung eingegeben, ich habe sie um 18:22 mit meinem Namen bestätigt. Das steht offen in der Datei `abgabe/protokoll.md`. Bis ein Vorschlag mit Zahlen dasteht, dauert es rund drei Minuten: Das Modell braucht drei bis neun Sekunden, dazu rechnet das Programm den Monat zweimal, vorher und nachher. Ein Vorschlag kostet zum Listenpreis rund einen Cent. Nicht jeder Satz sitzt beim ersten Mal. Zwei der drei Aufträge haben mehrere Anläufe gebraucht. Alle Versuche rund um die drei Aufträge zusammen haben rund 40 Cent gekostet.
 
 Belege: F19, F26, F27.
 
@@ -106,9 +106,9 @@ Geschätzt mit 130 Wörtern je Minute. Gemessen wird in der Probe (`probe.md`).
 | 4 | 60 | 76 | 35 |
 | 5 | 60 | 64 | 30 |
 | 6 | 60 | 76 | 35 |
-| 7 | 60 | 109 | 50 |
+| 7 | 60 | 111 | 51 |
 | 8 | 60 | 95 | 44 |
 | 9 | 45 | 50 | 23 |
 | 10 | 45 | 52 | 24 |
 | 11 | 15 | 17 | 8 |
-| **Summe** | **600** | **745** | **345** |
+| **Summe** | **600** | **747** | **346** |

diff --git a/web/content/slides-management/07-auftraege.md b/web/content/slides-management/07-auftraege.md
@@ -20,4 +20,4 @@ Herkunft: Protokoll der Änderungen, Protokoll der Modellaufrufe, drei Läufe zu
 
 ## Sprechernotizen
 
-Die Aufgabe stellt drei Änderungsaufträge, zum Beispiel: Dienstvertrag und freien Dienstvertrag zusammenfassen. Die habe ich in Sätzen gestellt, die Agenten schrieben Vorschläge. Die Freigaben hat in meinem Auftrag eine KI-Sitzung eingegeben, ich habe sie um 18:22 mit meinem Namen bestätigt. Das steht offen im Protokoll. Bis ein Vorschlag mit Zahlen dasteht, dauert es rund drei Minuten: Das Modell braucht drei bis neun Sekunden, dazu rechnet das Programm den Monat zweimal, vorher und nachher. Ein Vorschlag kostet zum Listenpreis rund einen Cent. Nicht jeder Satz sitzt beim ersten Mal. Zwei der drei Aufträge haben mehrere Anläufe gebraucht. Alle Versuche rund um die drei Aufträge zusammen haben rund 40 Cent gekostet.
+Die Aufgabe stellt drei Änderungsaufträge, zum Beispiel: Dienstvertrag und freien Dienstvertrag zusammenfassen. Die habe ich in Sätzen gestellt, die Agenten schrieben Vorschläge. Die Freigaben hat in meinem Auftrag eine KI-Sitzung eingegeben, ich habe sie um 18:22 mit meinem Namen bestätigt. Das steht offen in der Datei `abgabe/protokoll.md`. Bis ein Vorschlag mit Zahlen dasteht, dauert es rund drei Minuten: Das Modell braucht drei bis neun Sekunden, dazu rechnet das Programm den Monat zweimal, vorher und nachher. Ein Vorschlag kostet zum Listenpreis rund einen Cent. Nicht jeder Satz sitzt beim ersten Mal. Zwei der drei Aufträge haben mehrere Anläufe gebraucht. Alle Versuche rund um die drei Aufträge zusammen haben rund 40 Cent gekostet.

diff --git a/docs/praesentation/management-faq.md b/docs/praesentation/management-faq.md
@@ -73,7 +73,7 @@ Beleg: `abgabe/protokoll.md`, Abschnitt „Hinweise zu den Freigaben“ und Absc
 Beleg: F4 bis F11; `abgabe/protokoll.md`; `abgabe/rueckfragen/` (R1 bis R10); `docs/plan/uc3/annahmen.md`.
 
 **13. Was fehlt noch?**
-„Bei den Pensionen fehlen die öffentlich Bediensteten, die frühere BVA meldet keine. Wir zählen nach Abschnitt und Bundesland, weil die Lieferungen nur das haben. Die tiefen Klassifikationen kann man online nachschlagen, gezählt wird nicht tiefer. Die Live-Änderung ist getippt, nicht gesprochen. Das steht alles offen auf unserer Karte.“
+„Die Pensionen kamen nach dem Einfrieren der Abgabe dazu, bei ihnen fehlen die öffentlich Bediensteten, die frühere BVA meldet keine. Wir zählen nach Abschnitt und Bundesland, weil die Lieferungen nur das haben. Die tiefen Klassifikationen kann man online nachschlagen, gezählt wird nicht tiefer. Die Live-Änderung ist getippt, nicht gesprochen. Das steht alles offen auf unserer Karte.“
 Beleg: `kriterien-karte.md`, Fragenkatalog C14. Vor dem Freeze mit `main` abgleichen.
 
 ## Betrieb und Regeln

diff --git a/docs/praesentation/uc3-jury.md b/docs/praesentation/uc3-jury.md
@@ -71,7 +71,7 @@ Bernhard nennt sie von sich aus oder auf Nachfrage und versteckt sie nicht.
 
 - Die Live-Änderung ist ein getippter Satz, keine gesprochene Eingabe.
 - Gezählt wird nach ÖNACE-Abschnitt und Bundesland (Kriterien-Karte, Bereich 2).
-- Die Pensionen sind eingelesen, aber vorläufig bis zur Freigabe mit Namen, und ohne öffentlich Bedienstete: Die frühere BVA meldet keine (Bereich 1).
+- Die Pensionen kamen nach dem Einfrieren der Abgabe dazu, Reiter `/uc3/pensionen`. Öffentlich stehen sie auf vorläufig, ohne öffentlich Bedienstete: Die frühere BVA meldet keine (Bereich 1).
 - Wo Daten fehlen, gilt eine begründete Annahme mit Beleg, die Rückfrage ist dokumentiert (`abgabe/rueckfragen/`).
 - Zeitersparnis: nicht gemessen. Wir fragen zurück: „Wie lange dauert das bei Ihnen heute?“
 - Alle gesammelt: Fragenkatalog C14, `management-faq.md` Frage 13.
